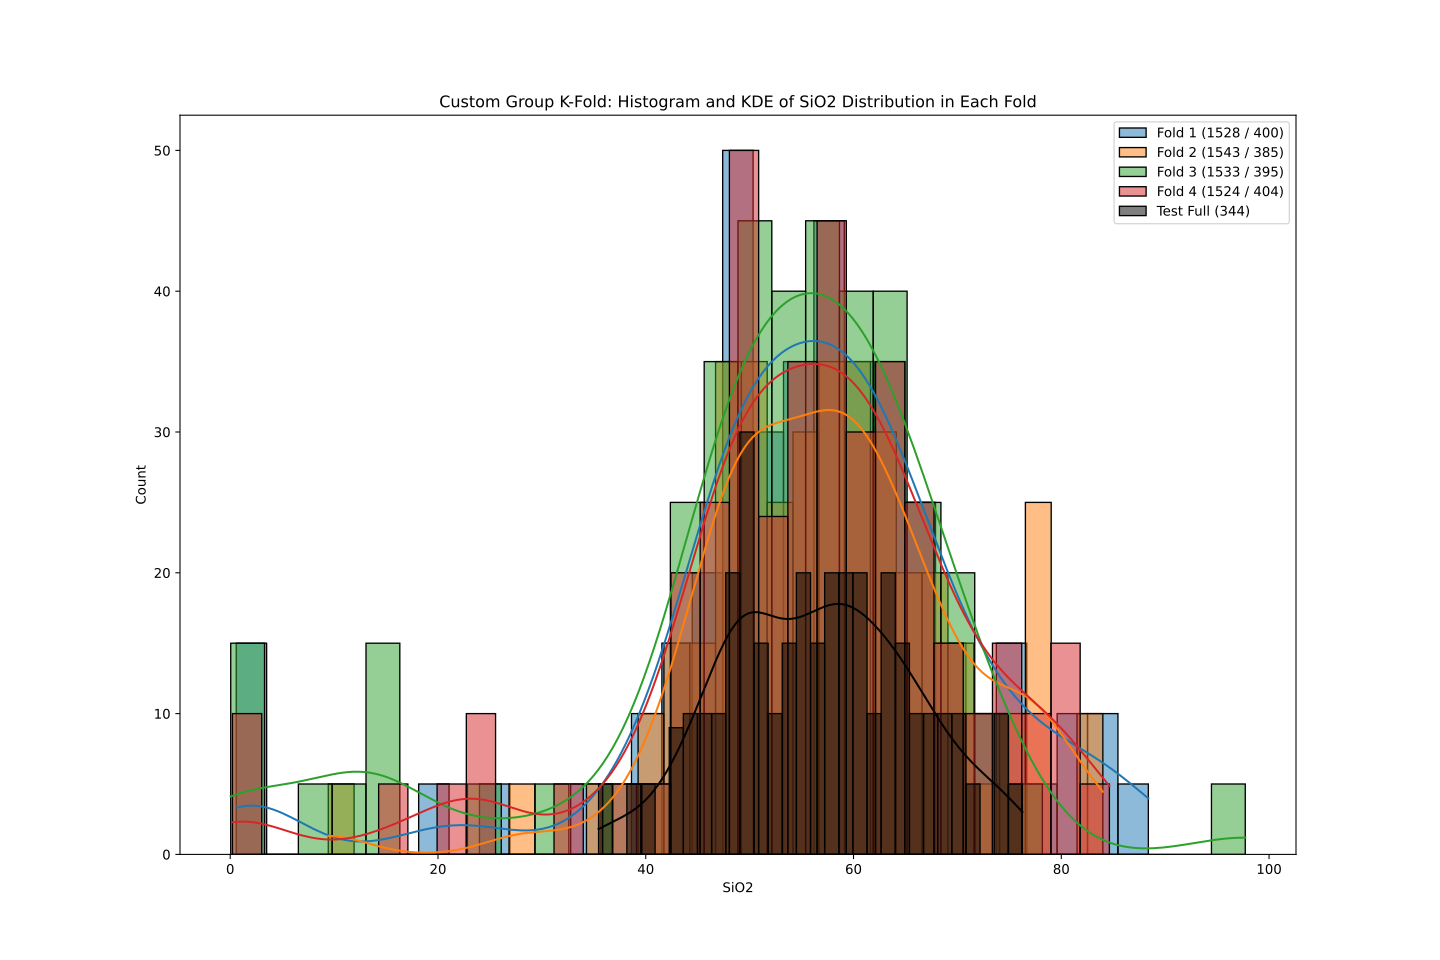
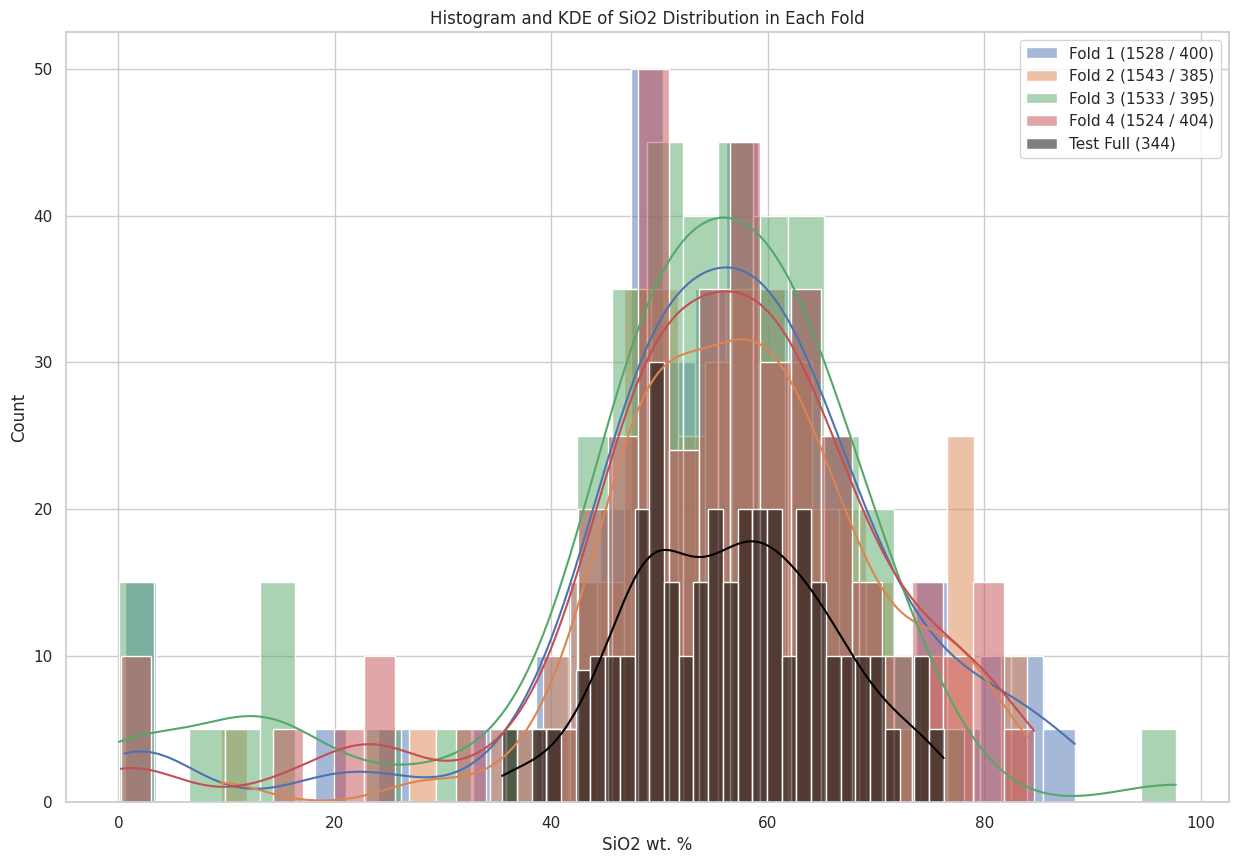
update figures

diff --git a/report_thesis/src/sections/results/visual_analysis.tex b/report_thesis/src/sections/results/visual_analysis.tex
@@ -6,13 +6,12 @@ We focus specifically on \ce{SiO_2} as a representative example to illustrate ou
 Similar analyses were conducted for other oxides; however, the plots and figures for these are omitted here for brevity.
 
 Figure \ref{fig:histogram_grid_plot} presents individual histograms and \gls{kde} curves for \ce{SiO_2} concentrations in each of the four cross-validation folds' validation sets and the full test set.
-Each subplot shows the count of samples per bin (y-axis) as a function of \ce{SiO_2} concentration (x-axis).
 The overlaid \gls{kde} curves provide a smoothed estimate of the probability density function for \ce{SiO_2} concentrations.
 
 \begin{figure*}[h!]
     \centering
     \includegraphics[width=\textwidth]{images/histogram_grid_plot.png}
-    \caption{Histogram and \gls{kde} of \ce{SiO_2} Distribution in Each Fold.}
+    \caption{Histogram and \gls{kde} of \ce{SiO_2} Distribution in Each Fold. The y-axis represents the count of samples per bin, and the x-axis represents \ce{SiO_2} concentration. The notation in the legend indicates the amount of instances in the training/validation sets.}
     \label{fig:histogram_grid_plot}
 \end{figure*}
 
@@ -27,7 +26,7 @@ This balance helps in preventing overfitting, as the model is trained and valida
 \begin{figure*}[h!]
     \centering
     \includegraphics[width=\textwidth]{images/histogram_kde_plot.png}
-    \caption{Combined Histogram and \gls{kde} of \ce{SiO_2} Distribution in Each Fold.}
+    \caption{Combined Histogram and \gls{kde} of \ce{SiO_2} Distribution in Each Fold. The y-axis represents the count of samples per bin, and the x-axis represents \ce{SiO_2} concentration. The notation in the legend indicates the amount of instances in the training/validation sets.}
     \label{fig:histogram_kde_plot}
 \end{figure*}
 
